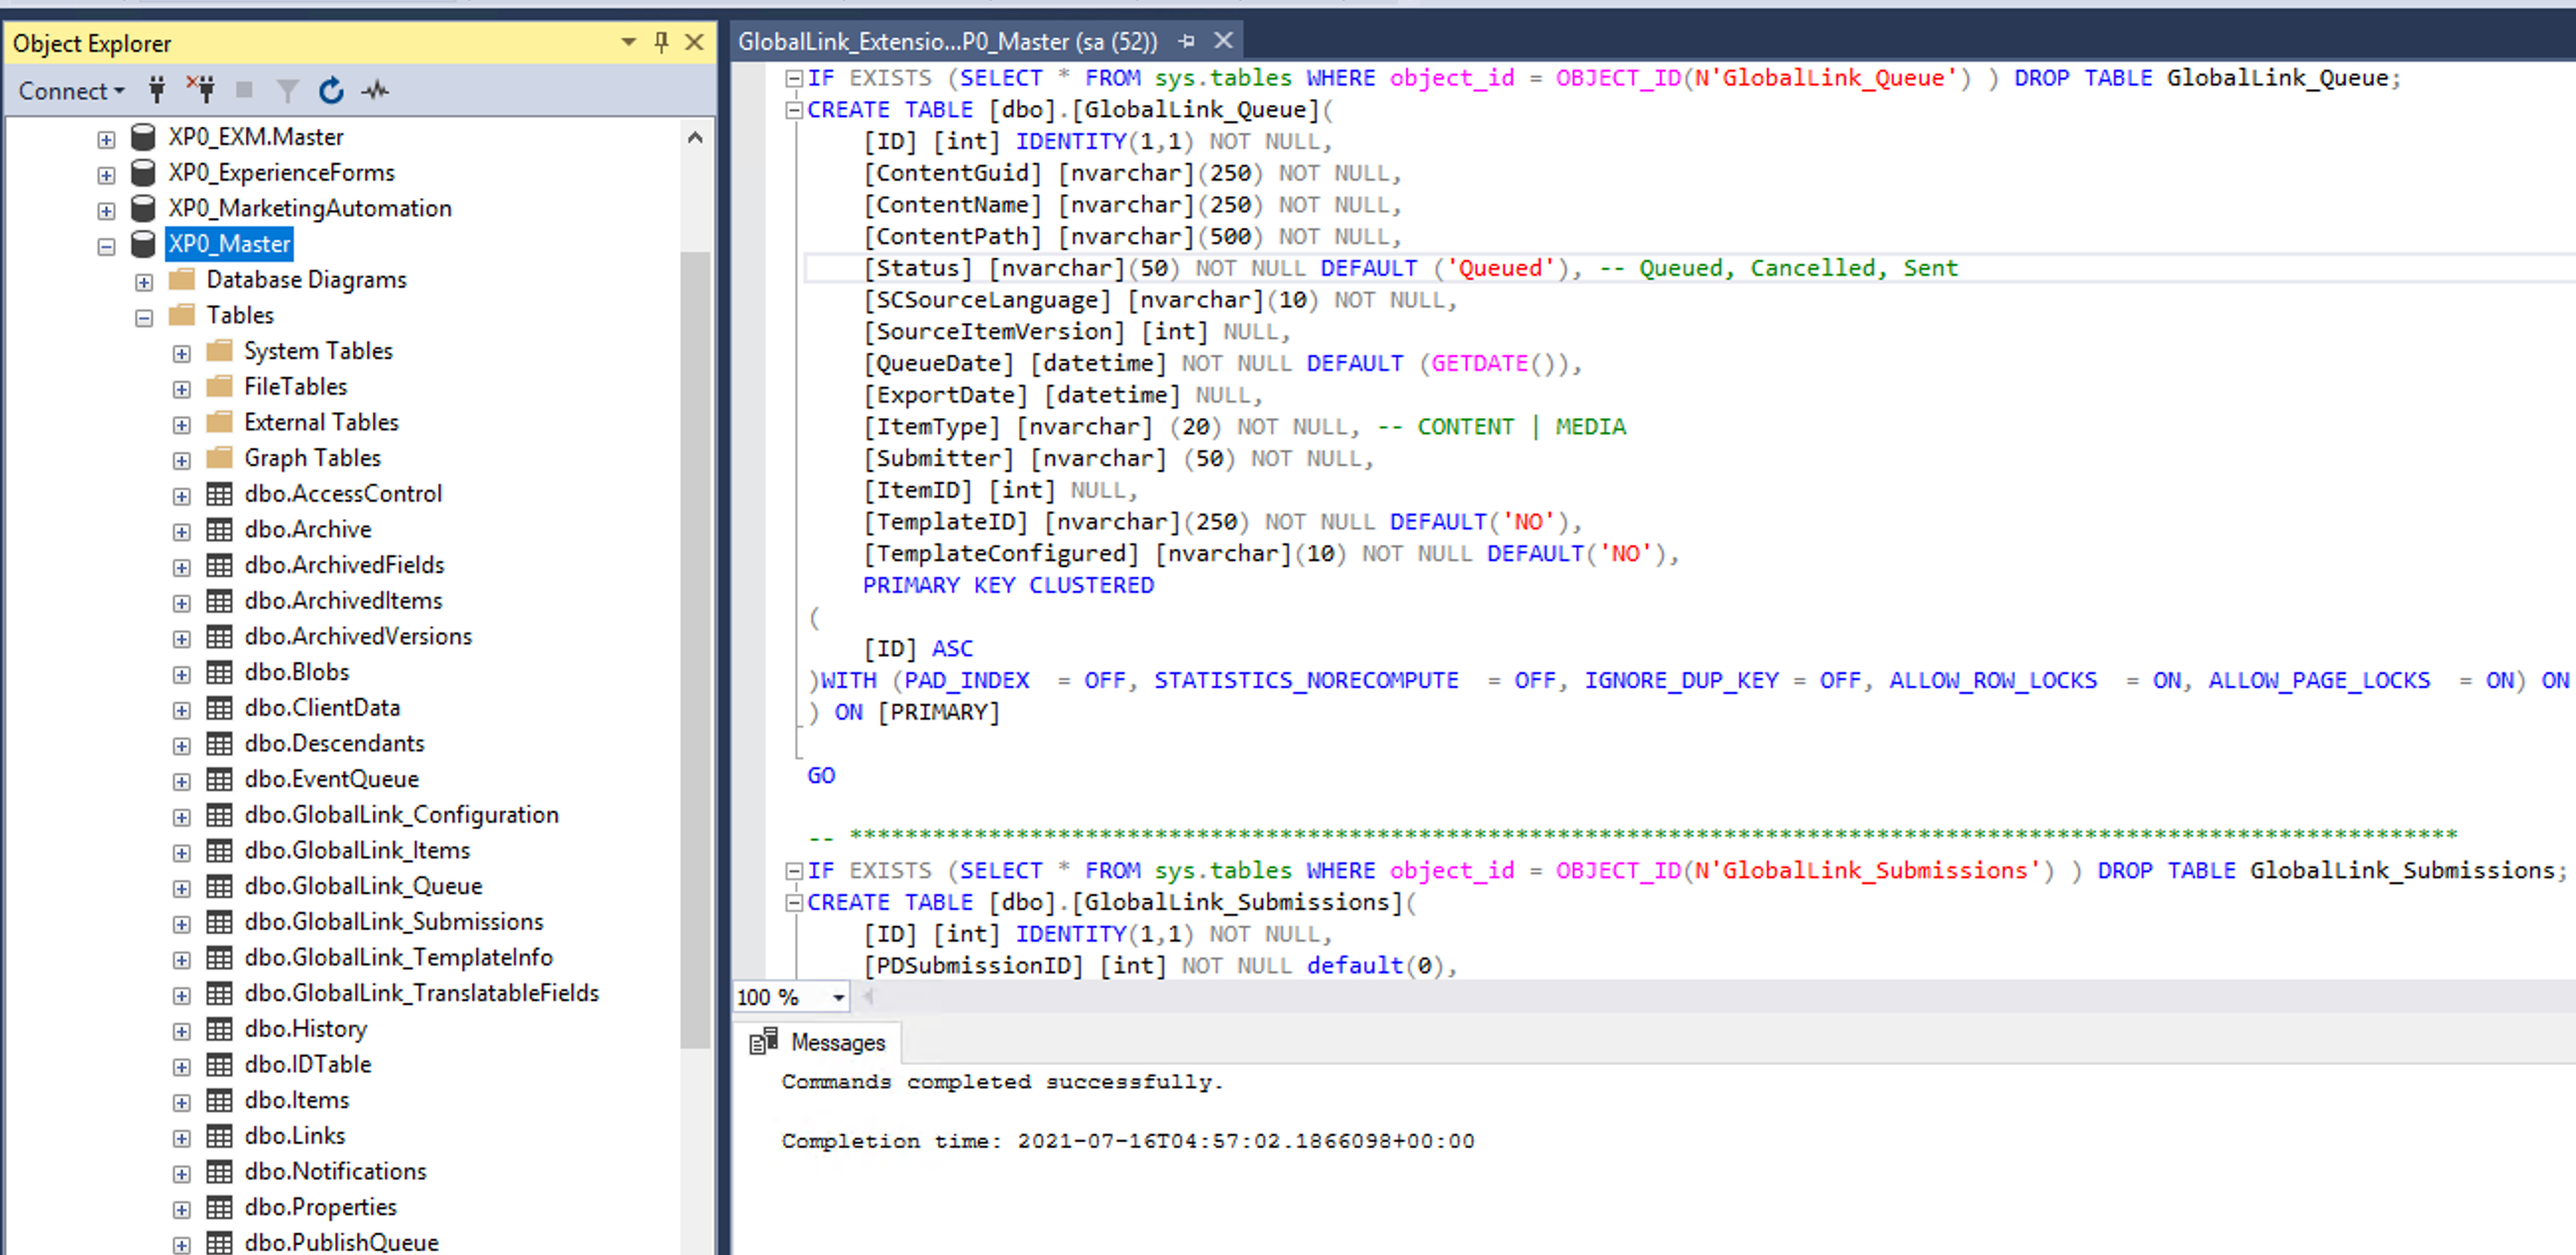
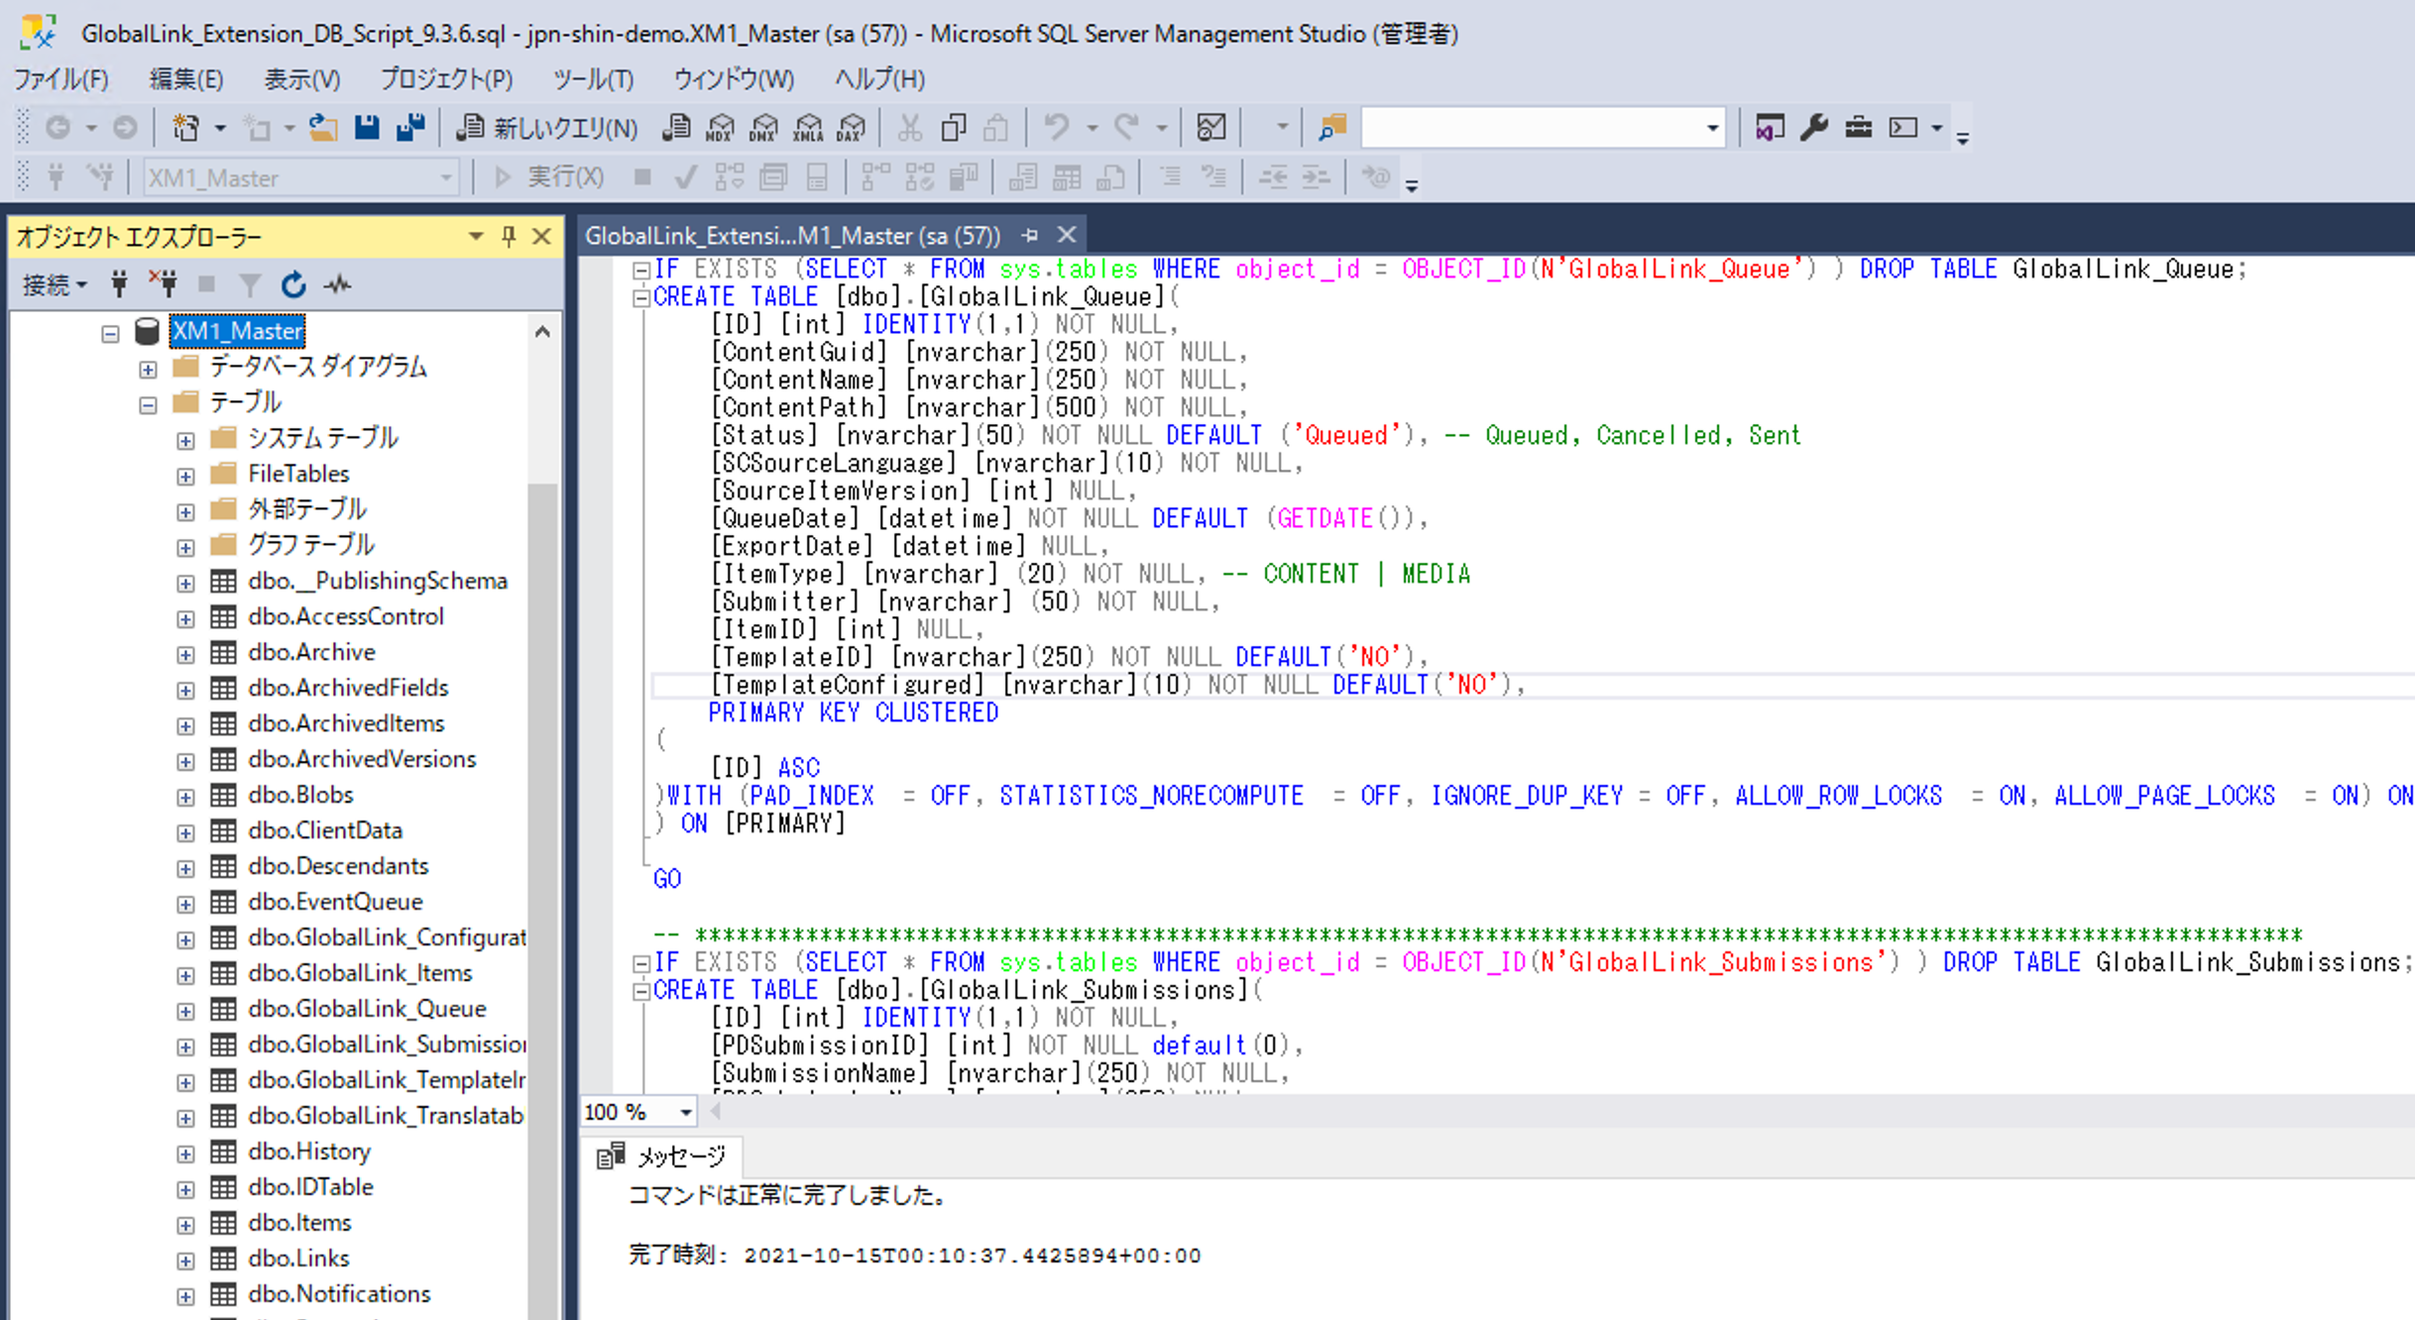
add transperfect

diff --git a/data/blog/2021/10/30/TransPerfect-GlobalLink.md b/data/blog/2021/10/30/TransPerfect-GlobalLink.md
@@ -1,0 +1,132 @@
+---
+title: Global Link モジュールのインストール
+date: '2021-10-30'
+tags: ['Sitecore','MultiLanguage','GlobalLink']
+draft: false
+summary: 今回は Stiecore と連携が可能な翻訳サービス、TransPerfect 社の GlobalLink 翻訳管理システムと Sitecore の連携モジュールのインストール手順を紹介します。サービスの詳細は、TransPerfect までデモリクエストが可能ですので、直接お問い合わせください。
+images: ['/static/images/2021/10/GlobalLink13.png']
+---
+
+今回は Stiecore と連携が可能な翻訳サービス、TransPerfect 社の GlobalLink 翻訳管理システムと Sitecore の連携モジュールのインストール手順を紹介します。サービスの詳細は、以下のサイトから参照してください。
+
+* [TransPerfect 公式サイト](https://www.transperfect.com/ja/home)
+* [デモの申し込み](https://www.transperfect.com/ja/technology)
+
+なお今回はデモ・検証用ということで TransPerfect 社から特別にアカウントを発行していただくことができました。このため、実際に評価したいという場合は、上記のページからお問い合わせください。
+
+## モジュールのインストール
+
+システムを連携するためのモジュールをインストールする必要があります。このツールはコンテンツ管理サーバーにて動作するだけで良いため、以下の手順でモジュールをインストールしていきます。
+
+1. コントロールパネルを開く
+2. 管理 - パッケージをインストールする を選択
+3. モジュールをアップロードして、インストールを進める
+
+![GlobalLinkModule](/static/images/2021/10/GlobalLink01.png)
+
+モジュールのインストールが完了したあと、以下の手順を進めていきます。
+
+## データベースの作成
+
+モジュールが処理をする上で必要となるデータベースを作成していきます。今回はデータベースは (local) となりますが、別のサーバーで運用している場合は SQL Server に管理ツールから接続して作業を進めてください。
+
+1. SQL Serer Management Studio して、データベースに接続します
+2. App_Data フォルダにある GlobalLink_Extension_DB_Script_9.3.6.sql を開きます
+3. 対象となるデータベースは Sitecore のマスターデータベースを指定します（今回は XM1_Master)
+
+![GlobalLinkModule](/static/images/2021/10/GlobalLink02.png)
+
+完了すると、GlobalLink 関連のデータベーステーブルが追加されています。
+
+![GlobalLinkModule](/static/images/2021/10/GlobalLink03.png)
+
+これで Sitecore のサーバーに関しての設定は完了です。
+
+## モジュールの設定ファイルを更新
+
+続いて、Sitecore と GlobalLink を接続する形となります。連携をするための設定ファイルは、 **\App_Config\Include\TranslateApp.config** を編集することになります。このファイルは、以下の項目を編集することになります。
+
+```xml
+<setting name="GlobalLink_connection_string" value=""/>
+```
+
+この項目は、Master データベースにアクセスすることができれば問題ないため、\App_Config\ConnectionStrings.config のファイルに定義されている Master データベースの接続文字列を参考にして、以下の接続文字列を完成させてください。
+
+```xml
+<setting name="GlobalLink_connection_string" value="user id=username;password=password;Data Source=localhost;Database=XM1_Master;MultipleActiveResultSets=True;"/>"/>
+```
+
+続いてもう一つの設定ファイル、**\App_Config\Include\Translate.config** を確認します。設定項目は以下の３つです。
+
+* **RetrieveAgent** 翻訳されたデータを Sitecore にダウンロードするための頻度を設定します。デフォルトでは 5 分に設定されています。
+* **ExportLowPriorityAgent** 優先順位が中および低となっているアイテムを GlobalProtect に送信します。デフォルトでは 3 分に設定されています。
+* **ExportHighPriorityAgent** 優先順位が高となっているアイテムを GlobalProtect に送信をします。デフォルトでは 5 分に設定されています。
+
+設定としては hh:mm:ss という形で記載します。今回はデフォルトのままで進めるため、特に変更せず確認だけしました。
+
+## 日本語リソースのインストール
+
+モジュールには日本語のリソースが含まれていないため、日本語の管理画面ではメニューが表示されない形となります。今回テストをしたモジュールに関しての日本語リソースを作成して、GitHub にリソースファイルをアップロードしておきました。
+
+* https://github.com/SitecoreJapan/InstallScript/tree/master/demo/TransPerfect
+
+上記にアップロードされている TransPerfect-ja-JP.xml をインポートしてください。
+
+![GlobalLinkModule](/static/images/2021/10/GlobalLink04.png)
+
+インポートが完了すると、コンテンツエディターに GlobalLink のメニューが表示されています。
+
+![GlobalLinkModule](/static/images/2021/10/GlobalLink05.png)
+
+これでサーバー側の設定は完了となります。
+
+## 実際に利用してみる
+
+Sitecore の Home アイテムが英語のみとなるため、これを日本語にする手順を紹介します。
+
+1. Globallink のタブを開く
+2. セットアップを開く
+3. GlobalLink との接続情報を入力する
+
+![GlobalLinkModule](/static/images/2021/10/GlobalLink06.png)
+
+4. Locale Map として、Sitecore の言語と翻訳するロケールを記載します（今回は、 en:en-US,ja-JP:ja-JP とする）
+4. Save Parameters のボタンをクリックします
+
+これでアカウントを利用してサーバーとの接続ができるようになりました。
+
+翻訳の手順を確認していきます。今回は Home のアイテムを選択している形で、設定をクリックすると翻訳対象となるフィールドを選択することができます。Select All をクリックして保存します。
+
+![GlobalLinkModule](/static/images/2021/10/GlobalLink07.png)
+
+続いて、アイテムとしては英語のコンテンツに切り替えて、メニューに表示されている**翻訳**ボタンをクリックします。 Submission Name など必要な情報を入れて翻訳ボタンをクリックします。
+
+![GlobalLinkModule](/static/images/2021/10/GlobalLink08.png)
+
+データに関してはバックグラウンドで送信されます。
+
+![GlobalLinkModule](/static/images/2021/10/GlobalLink09.png)
+
+ダッシュボードを開くと、プロジェクトの中身を確認することができます。
+
+![GlobalLinkModule](/static/images/2021/10/GlobalLink10.png)
+
+しばらくすると、翻訳サービス側にプロジェクトが送信されます。今回は、機械翻訳で翻訳が終わる形となっているため、完了となりました。
+
+![GlobalLinkModule](/static/images/2021/10/GlobalLink11.png)
+
+インポートのボタンをクリックすると、バッチでのタイミングではなくその場でデータを取得しにいきます。
+
+![GlobalLinkModule](/static/images/2021/10/GlobalLink12.png)
+
+データのインポートが完了すると、以下のように日本語のデータが設定されていることがわかります。
+
+![GlobalLinkModule](/static/images/2021/10/GlobalLink13.png)
+
+実際に翻訳作業に関して、翻訳支援サービスとの連携ができていることを確認することができました。
+
+## まとめ
+
+Sitecore は多言語でのサイト運用という点では非常によくできた CMS で、多くの多言語サイトで導入されています。次は翻訳プロセスの改善ということになりますが、翻訳サービスを提供している会社との連携が今回のように実現が可能です。あとは、翻訳会社には翻訳業務における最適化のノウハウがあります。ぜひ、その内容に関しては TransPerfect 社にお問い合わせください。
+
+* [Transperfect 公式サイト](https://www.transperfect.com/ja/home)
